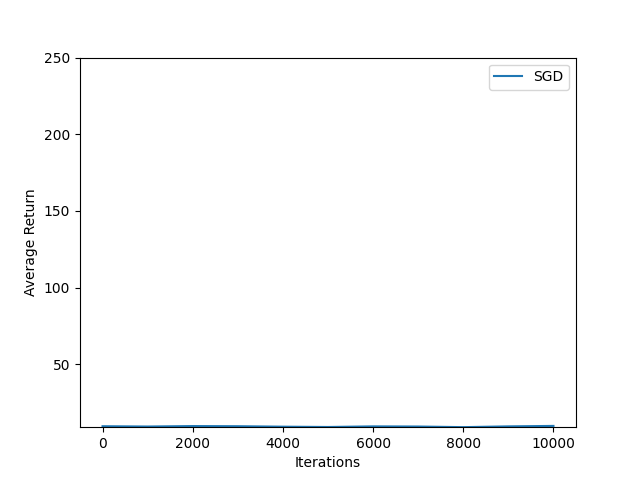
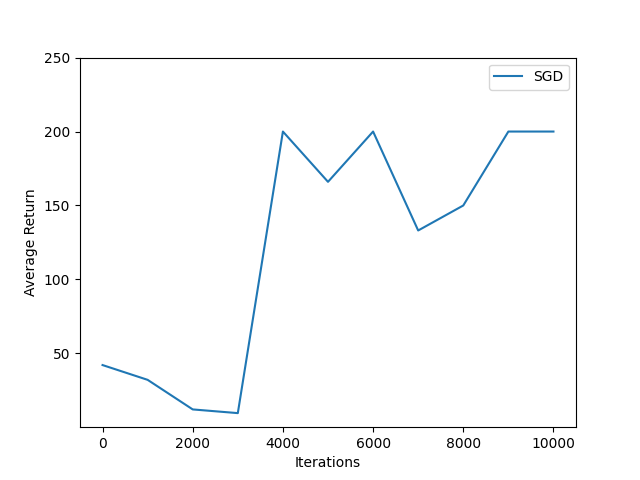
Update hw8

diff --git a/src/main.py b/src/main.py
@@ -38,20 +38,22 @@ num_actions = action_tensor_spec.maximum - action_tensor_spec.minimum + 1
 
 global_returns = {}
 optimizers = [
-    # tf.keras.optimizers.Adam(learning_rate=learning_rate),
+    tf.keras.optimizers.Adam(learning_rate=learning_rate),
     tf.keras.optimizers.SGD(learning_rate=learning_rate*10)
 ]
-algos = [DDQN]#, DDQN]
+algos = [DQN, DDQN]
 
-with open('results.txt', 'a') as f:
+with open('results_final.txt', 'a') as f:
     for ALGO in algos:
         local_returns = {}
         f.write(f'========= {ALGO} =========\n')
+        print(f'========= {ALGO} =========')
         for optimizer in optimizers:
             algo = ALGO(fc_layer_params, num_actions, optimizer)
             algo_name = algo.name()
             name = optimizer._name
             f.write(f'-------- {name} --------\n')
+            print(f'-------- {name} --------')
             buffer = ReplayBuffer(replay_buffer_max_length)
             buffer.fill_buffer(env, algo, initial_collect_steps)
             returns = train(env, 
@@ -63,20 +65,23 @@ with open('results.txt', 'a') as f:
                             num_eval_episodes=num_eval_episodes, 
                             eval_interval=eval_interval)
             f.write(','.join(list(map(str, returns))))
+            print(','.join(list(map(str, returns))))
             f.write('\n')
             local_returns[name] = returns
+            del algo
+            del buffer
         global_returns[algo_name] = local_returns
 
 plot_return(num_iterations, eval_interval, global_returns['DDQN'], ['SGD'], 'ddqn_sgd_2.png')
 
-# plot_return(num_iterations, eval_interval, global_returns['DQN'], ['Adam'], '1a.png')
-# plot_return(num_iterations, eval_interval, global_returns['DQN'], global_returns['DQN'].keys(), '1b.png')
-# plot_return(num_iterations, eval_interval, {
-#                 'DQN': global_returns['DQN']['Adam'],
-#                 'DDQN': global_returns['DDQN']['Adam']
-#             }, 
-#             ['DQN', 'DDQN'], '2a.png')
-# plot_return(num_iterations, eval_interval, global_returns['DDQN'], global_returns['DDQN'].keys(), '2b.png')
+plot_return(num_iterations, eval_interval, global_returns['DQN'], ['Adam'], '1a.png')
+plot_return(num_iterations, eval_interval, global_returns['DQN'], global_returns['DQN'].keys(), '1b.png')
+plot_return(num_iterations, eval_interval, {
+                'DQN': global_returns['DQN']['Adam'],
+                'DDQN': global_returns['DDQN']['Adam']
+            }, 
+            ['DQN', 'DDQN'], '2a.png')
+plot_return(num_iterations, eval_interval, global_returns['DDQN'], global_returns['DDQN'].keys(), '2b.png')
 
 # create_policy_eval_video(env, algo, 'trained-agent', random=False)
 # create_policy_eval_video(env, algo, 'random-agent', random=True)

diff --git a/src/utils.py b/src/utils.py
@@ -8,6 +8,7 @@ def plot_return(num_iterations, eval_interval, global_returns, labels, filename)
     iterations = range(0, num_iterations + 1, eval_interval)
 
     print(global_returns)
+    plt.clf()
 
     for label in labels:
         plt.plot(iterations, global_returns[label], label=label)
